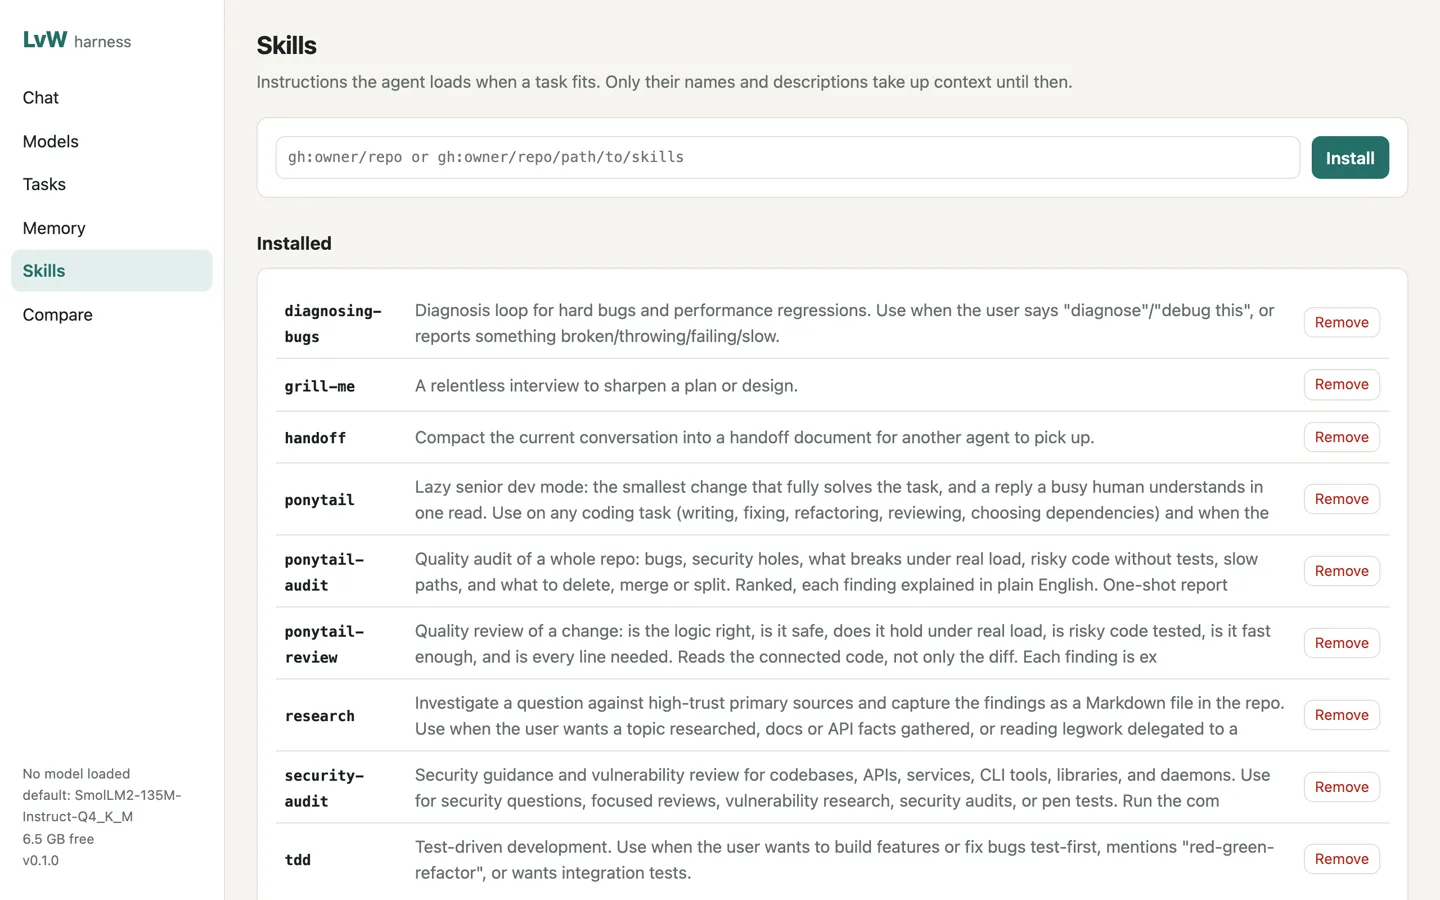
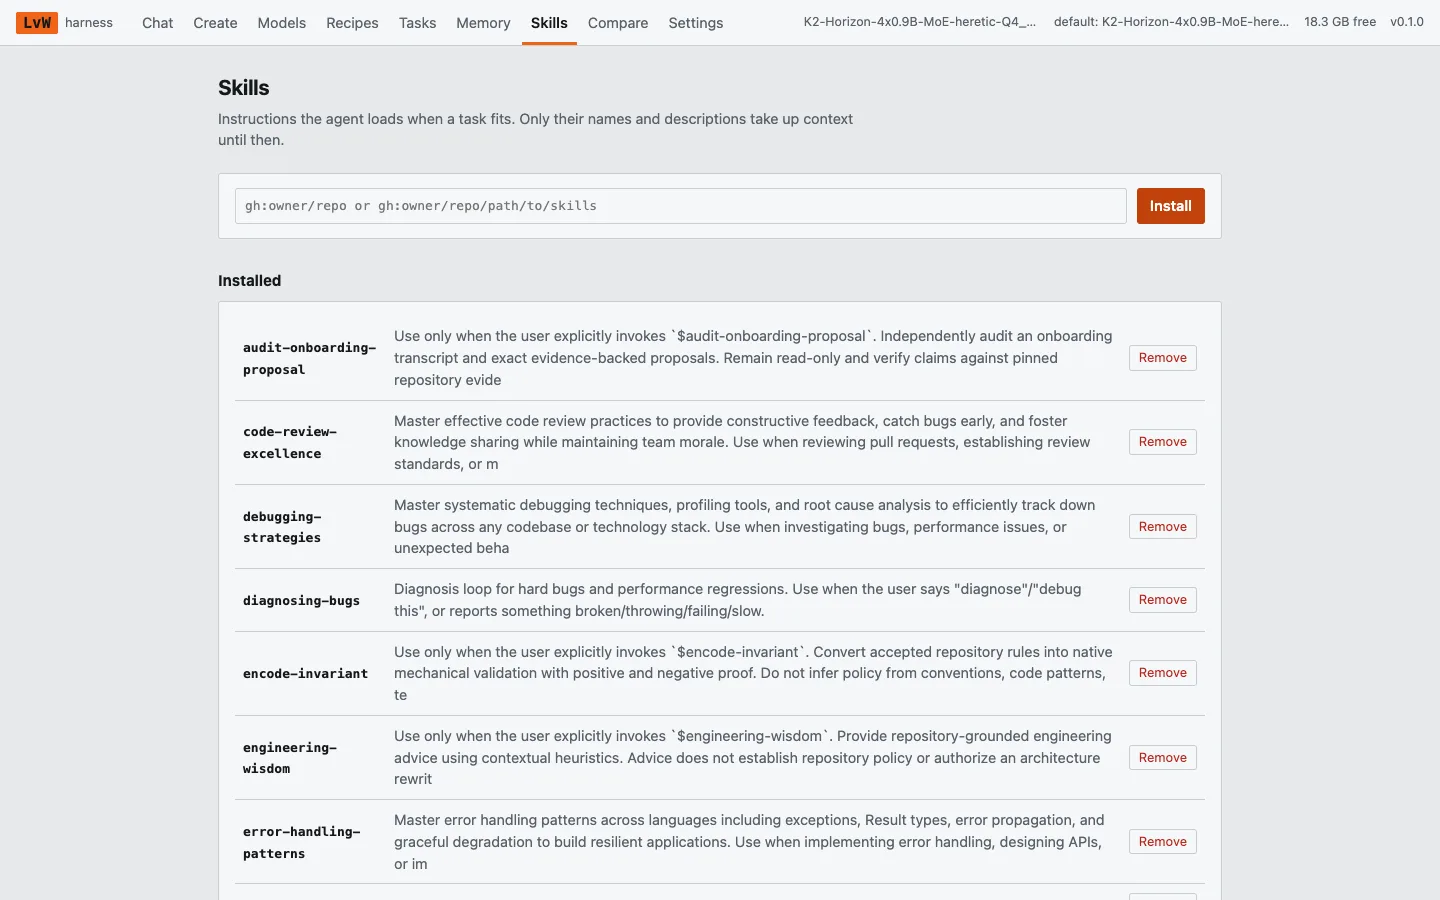
New screenshots and demo for the new look, 24-hour times in the work log

diff --git a/src/web/style.css b/src/web/style.css
@@ -55,6 +55,8 @@ body { background: var(--bg); color: var(--ink); font: 14.5px/1.5 var(--sans); }
 .sidebar a.active { color: var(--ink); border-bottom-color: var(--strap); font-weight: 600; }
 .sidebar-foot { margin-left: auto; display: flex; align-items: center; gap: 14px; font-size: 12.5px; color: var(--muted); white-space: nowrap; overflow: hidden; padding-left: 16px; }
 .sidebar-foot div:empty { display: none; }
+.sidebar-foot div { overflow: hidden; text-overflow: ellipsis; max-width: 30ch; }
+.sidebar-foot div:nth-last-child(-n+2) { max-width: none; flex: none; }
 main { overflow: auto; outline: none; min-height: 0; }
 .page { max-width: 1060px; margin: 0 auto; padding: 26px 28px 64px; }
 h1 { font-size: 21px; font-weight: 700; margin: 0 0 4px; letter-spacing: -0.01em; }
@@ -195,7 +197,7 @@ figure.media figcaption { font-size: 12px; }
 .msg .attached img { max-width: 180px; max-height: 140px; border-radius: 2px; }
 .msg .attached audio { max-width: 260px; }
 .msg.assistant { position: relative; }
-.msg.assistant .speak { position: absolute; right: 0; bottom: -4px; opacity: 0; transition: opacity .15s; }
+.msg.assistant .speak { display: block; margin: 2px 0 0 auto; opacity: 0; transition: opacity .15s; }
 .msg.assistant:hover .speak, .msg.assistant .speak:focus { opacity: 1; }
 button.recording { background: var(--bad); color: #fff; border-color: var(--bad); }
 

diff --git a/src/web/app.js b/src/web/app.js
@@ -419,7 +419,7 @@ async function chatPage(root) {
   const addAssistant = (el, text) => {
     el.append(h("button", { class: "small speak", title: "Read this aloud", onclick: (e) => speakText(text, e.currentTarget) }, "Read aloud"));
   };
-  const clock = (t) => new Date(t).toLocaleTimeString([], { hour: "2-digit", minute: "2-digit" });
+  const clock = (t) => new Date(t).toLocaleTimeString([], { hour: "2-digit", minute: "2-digit", hour12: false });
   const addTool = (id, name, args, time) => {
     const pre = h("pre", {}, JSON.stringify(args, null, 2));
     const el = h(

diff --git a/src/cli/ui.ts b/src/cli/ui.ts
@@ -20,7 +20,7 @@ export const c = {
 export function logLine(tool: string, args: unknown): string {
   const a = (args ?? {}) as Record<string, unknown>;
   const what = a.command ?? a.path ?? a.url ?? a.query ?? a.name ?? a.task ?? JSON.stringify(args ?? "");
-  const time = new Date().toLocaleTimeString([], { hour: "2-digit", minute: "2-digit" });
+  const time = new Date().toLocaleTimeString([], { hour: "2-digit", minute: "2-digit", hour12: false });
   return `${c.dim(time)} ${c.bold(tool.padEnd(8))} ${c.dim(String(what).replace(/\s+/g, " ").slice(0, 140))}`;
 }
 

diff --git a/README.md b/README.md
@@ -11,7 +11,7 @@ A local-first AI agent with a one-command model manager for Hugging Face, GitHub
 ![Built on the pi SDK](https://img.shields.io/badge/built%20on-pi%20SDK-2f6f62)
 ![Runs on macOS and Linux](https://img.shields.io/badge/runs%20on-macOS%20%7C%20Linux-2f6f62)
 
-<img src="docs/images/models.webp" alt="The Models page of the LvW web UI: disk meter, a source field, and a table of downloaded models with Run and Remove buttons" width="900">
+<img src="docs/images/models.webp" alt="The Models page of the LvW web UI: a disk meter and the suggested models, one per row, with Get buttons" width="900">
 
 </div>
 
@@ -240,6 +240,8 @@ lvw serve                          # http://127.0.0.1:7878
 ```
 
 The pages are Chat, Create, Models, Recipes, Tasks, Memory, Skills, Compare and Settings. Chat has a mode picker, approval cards, attachments, voice notes, checkpoints and a preview of any HTML or SVG the agent writes. Create makes images, video, speech, music and 3D, and Compare sends one prompt to several models side by side. The UI loads nothing from the internet and works offline.
+
+<img src="docs/images/chat.webp" alt="A chat with K2-Horizon: each tool call is one line of the work log with its time and result, and the agent waits under a striped approval box before it edits notes.md" width="900">
 
 <table>
 <tr>
